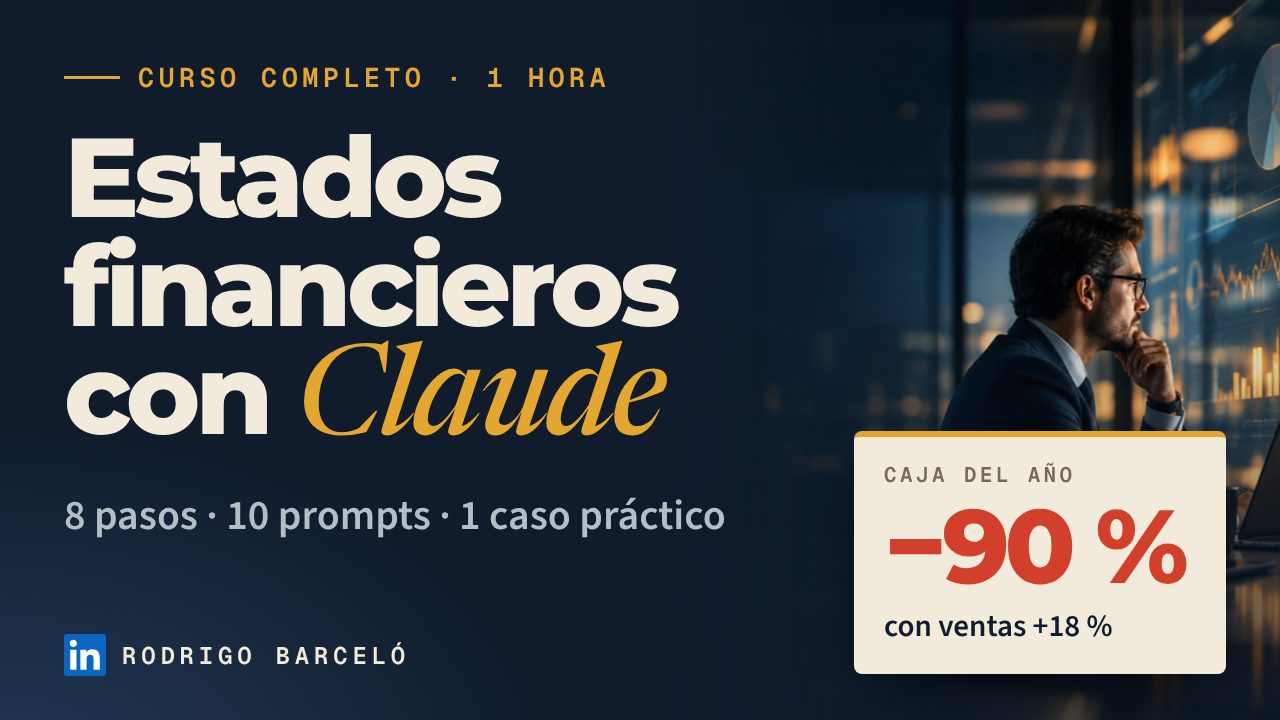
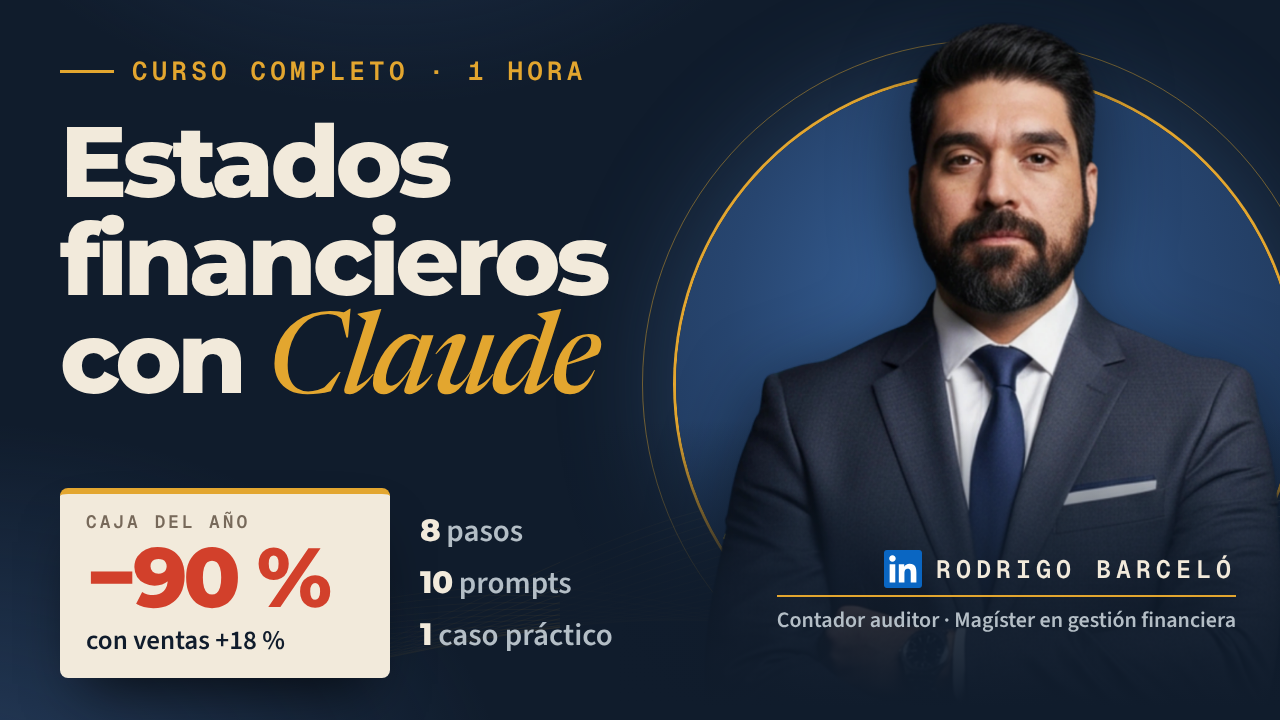
Curso de YouTube: miniatura con el retrato del autor
La miniatura lleva la foto del autor (tomada de su flyer en Canva, exportado con fondo transparente)
sobre un aro de luz con filete dorado, su nombre y credenciales, el título y el dato del caso.
La placa con el nombre queda sobre la esquina donde YouTube superpone la duración del video.

Claude-Session: https://claude.ai/code/session_01D34wMs6CNV8LnqbGaGS6HL

diff --git a/curso_youtube/youtube.py b/curso_youtube/youtube.py
@@ -16,7 +16,7 @@ from pathlib import Path
 
 from . import deck
 from .ensamblar import ENTRADA, _marca
-from .laminas import CORREO, LINKEDIN, LINKEDIN_URL, MARCA
+from .laminas import CORREO, LINKEDIN, LINKEDIN_URL, MARCA, _ondas
 
 AQUI = Path(__file__).parent
 SALIDA = AQUI / "youtube"
@@ -128,41 +128,55 @@ MINIATURA_HTML = """<!doctype html><html lang="es"><head><meta charset="utf-8"><
 @font-face{font-family:"Geist Mono";src:url("__FUENTES__/geist-mono.woff2") format("woff2");font-weight:100 900}
 *{box-sizing:border-box;margin:0;padding:0}
 body{width:1280px;height:720px;overflow:hidden;position:relative;font-family:"Montserrat",sans-serif;color:#F2EADB;
- background:radial-gradient(900px 600px at 0% 110%,rgba(63,98,148,.42),transparent 62%),#101C2C}
-.foto{position:absolute;right:0;top:0;bottom:0;width:600px;background:url("__IMAGENES__/heroe_gestion.jpg") 58% 50%/cover;
- -webkit-mask-image:linear-gradient(90deg,transparent 0,rgba(0,0,0,.6) 30%,#000 62%);mask-image:linear-gradient(90deg,transparent 0,rgba(0,0,0,.6) 30%,#000 62%)}
-.foto::after{content:"";position:absolute;inset:0;background:linear-gradient(180deg,rgba(16,28,44,.1),rgba(16,28,44,0) 40%,rgba(16,28,44,.78))}
-.iz{position:absolute;left:64px;top:60px;width:800px}
-.sello{display:flex;align-items:center;gap:18px;font-family:"Geist Mono",monospace;font-size:27px;font-weight:600;letter-spacing:.16em;color:#E3A62F}
-.sello::before{content:"";width:56px;height:3px;background:#E3A62F}
-h1{font-size:112px;line-height:.97;font-weight:800;letter-spacing:-.045em;margin-top:28px}
-h1 em{font-family:"Newsreader",serif;font-style:italic;font-weight:500;letter-spacing:-.02em;color:#E3A62F;font-size:1.12em;line-height:.8}
-.sub{margin-top:30px;font-family:"Source Sans 3",sans-serif;font-size:42px;font-weight:600;color:#B4BEC6}
-.marca{position:absolute;left:64px;bottom:44px;display:flex;align-items:center;gap:16px;font-family:"Geist Mono",monospace;font-size:24px;font-weight:600;letter-spacing:.2em;text-transform:uppercase;color:#F2EADB}
-.marca svg{width:42px;height:42px;flex:none}
-.dato{position:absolute;right:54px;bottom:46px;width:372px;background:#F2EADB;color:#101C2C;border-radius:8px;padding:24px 30px 26px;box-shadow:0 34px 70px -24px rgba(0,0,0,.75);border-top:6px solid #E3A62F}
-.dato .t{font-family:"Geist Mono",monospace;font-size:21px;font-weight:600;letter-spacing:.16em;color:#77695A}
-.dato .n{font-size:104px;font-weight:800;letter-spacing:-.05em;line-height:1;margin-top:6px;color:#D2402B}
-.dato .d{font-family:"Source Sans 3",sans-serif;font-size:31px;font-weight:600;margin-top:6px}
+ background:radial-gradient(900px 620px at -4% 112%,rgba(63,98,148,.46),transparent 62%),radial-gradient(700px 500px at 30% -30%,rgba(46,72,110,.5),transparent 64%),#101C2C}
+.ondas{position:absolute;inset:0;width:1280px;height:720px;opacity:.26}
+/* el autor, sobre un aro de luz que lo separa del fondo */
+.aro{position:absolute;left:676px;top:74px;width:620px;height:620px;border-radius:50%;
+ background:radial-gradient(circle at 46% 38%,#3A66A0 0%,#27456F 46%,#1A2E4B 100%);box-shadow:0 0 0 3px #E3A62F,0 0 110px 10px rgba(79,125,184,.32)}
+.aro::after{content:"";position:absolute;inset:-34px;border-radius:50%;border:1.5px solid rgba(227,166,47,.45)}
+.autor{position:absolute;left:704px;top:22px;height:838px;filter:drop-shadow(0 18px 36px rgba(4,8,14,.6))}
+.velo{position:absolute;left:560px;right:0;bottom:0;height:300px;background:linear-gradient(180deg,rgba(16,28,44,0),rgba(16,28,44,.8) 52%,#101C2C 96%)}
+.placa{position:absolute;right:44px;bottom:84px;display:flex;flex-direction:column;align-items:flex-end;gap:7px}
+.placa .n{display:flex;align-items:center;gap:14px;font-family:"Geist Mono",monospace;font-size:25px;font-weight:600;letter-spacing:.2em;text-transform:uppercase;color:#F2EADB}
+.placa .n svg{width:38px;height:38px;flex:none}
+.placa .c{font-family:"Source Sans 3",sans-serif;font-size:22px;font-weight:600;color:#B4BEC6;border-top:2px solid #E3A62F;padding-top:7px}
+.iz{position:absolute;left:60px;top:54px;width:660px}
+.sello{display:flex;align-items:center;gap:18px;font-family:"Geist Mono",monospace;font-size:26px;font-weight:600;letter-spacing:.16em;color:#E3A62F}
+.sello::before{content:"";width:54px;height:3px;background:#E3A62F}
+h1{font-size:100px;line-height:.98;font-weight:800;letter-spacing:-.045em;margin-top:24px}
+h1 em{font-family:"Newsreader",serif;font-style:italic;font-weight:500;letter-spacing:-.02em;color:#E3A62F;font-size:1.13em;line-height:.8}
+.abajo{position:absolute;left:60px;bottom:42px;display:flex;align-items:stretch;gap:30px}
+.dato{width:330px;background:#F2EADB;color:#101C2C;border-radius:8px;padding:16px 26px 18px;box-shadow:0 30px 60px -24px rgba(0,0,0,.75);border-top:6px solid #E3A62F}
+.dato .t{font-family:"Geist Mono",monospace;font-size:18px;font-weight:600;letter-spacing:.16em;color:#77695A}
+.dato .n{font-size:84px;font-weight:800;letter-spacing:-.05em;line-height:1;margin-top:2px;color:#D2402B;white-space:nowrap}
+.dato .d{font-family:"Source Sans 3",sans-serif;font-size:27px;font-weight:600;margin-top:2px}
+.lista{display:flex;flex-direction:column;justify-content:center;gap:8px;font-family:"Source Sans 3",sans-serif;font-size:31px;font-weight:600;color:#B4BEC6;white-space:nowrap}
+.lista b{font-family:"Montserrat",sans-serif;font-weight:800;color:#F2EADB;letter-spacing:-.02em}
 </style></head><body>
-<div class="foto"></div>
+__ONDAS__
+<div class="aro"></div>
+<img class="autor" src="__IMAGENES__/autor.png" alt="">
+<div class="velo"></div>
 <div class="iz"><span class="sello">CURSO COMPLETO · 1 HORA</span>
-<h1>Estados financieros con <em>Claude</em></h1>
-<div class="sub">8 pasos · 10 prompts · 1 caso práctico</div></div>
-<div class="marca">__LOGO____MARCA__</div>
-<div class="dato"><div class="t">CAJA DEL AÑO</div><div class="n">−90 %</div><div class="d">con ventas +18 %</div></div>
+<h1>Estados financieros con <em>Claude</em></h1></div>
+<div class="abajo"><div class="dato"><div class="t">CAJA DEL AÑO</div><div class="n">−90 %</div><div class="d">con ventas +18 %</div></div>
+<div class="lista"><span><b>8</b> pasos</span><span><b>10</b> prompts</span><span><b>1</b> caso práctico</span></div></div>
+<div class="placa"><div class="n">__LOGO____MARCA__</div><div class="c">Contador auditor · Magíster en gestión financiera</div></div>
 </body></html>"""
 
 
 def miniatura(destino: Path) -> None:
+    """Miniatura de 1280 x 720 con el retrato del autor (imagenes/autor.png)."""
     aqui = Path(__file__).parent.resolve()
     html = destino.with_suffix(".html")
     html.write_text(MINIATURA_HTML.replace("__LOGO__", LINKEDIN).replace("__MARCA__", MARCA)
+                    .replace("__ONDAS__", _ondas(0).replace('viewBox="0 0 1920 1080"', 'viewBox="0 0 1920 1080" preserveAspectRatio="none"'))
                     .replace("__FUENTES__", (aqui / "fuentes").as_uri()).replace("__IMAGENES__", (aqui / "imagenes").as_uri()),
                     encoding="utf-8")
     script = ("const {chromium}=require('playwright');(async()=>{const b=await chromium.launch();"
               "const c=await b.newContext({viewport:{width:1280,height:720},deviceScaleFactor:1});const p=await c.newPage();"
               f"await p.goto('file://{html.resolve()}');await p.evaluate(()=>document.fonts.ready);"
+              "await p.evaluate(()=>Promise.all([...document.images].map(i=>i.decode().catch(()=>{}))));"
               f"await p.screenshot({{path:'{destino.resolve()}'}});await b.close();}})();")
     subprocess.run(["node", "-e", script], check=True)
     html.unlink()

diff --git a/tests/test_curso_deck.py b/tests/test_curso_deck.py
@@ -89,3 +89,14 @@ def test_el_cierre_ofrece_asesoria_con_los_datos_de_contacto():
     descripcion = youtube.publicacion(["00:00 Introducción"], estimados=False)
     assert LINKEDIN_URL in descripcion and CORREO in descripcion
     assert "[ENLACE A TU PERFIL DE LINKEDIN]" not in descripcion
+
+
+def test_la_miniatura_usa_el_retrato_del_autor_y_archivos_que_existen():
+    import re
+    from pathlib import Path
+    from curso_youtube import youtube
+    raiz = Path(youtube.__file__).parent
+    assert "__IMAGENES__/autor.png" in youtube.MINIATURA_HTML
+    for carpeta, marca in (("imagenes", "__IMAGENES__"), ("fuentes", "__FUENTES__")):
+        for archivo in re.findall(re.escape(marca) + r"/([\w.-]+)", youtube.MINIATURA_HTML):
+            assert (raiz / carpeta / archivo).exists(), f"{carpeta}/{archivo}"

diff --git a/curso_youtube/README.md b/curso_youtube/README.md
@@ -11,6 +11,7 @@ los subtítulos y los capítulos.
 | Caso práctico (Distribuidora Alerce, ficticia) | `caso.py` · todas las cifras se calculan y verifican aquí |
 | Material descargable para la audiencia | `material/caso_distribuidora_alerce.xlsx` y `material/prompts.md` |
 | Título, descripción, capítulos, etiquetas y miniatura | `youtube/publicacion.md` y `youtube/miniatura.png` |
+| Retrato del autor para la miniatura (viene de su flyer en Canva, exportado con fondo transparente) | `imagenes/autor.png` |
 | Registro de la narración generada (qué audio corresponde a cada segmento) | `narracion.json` |
 
 ## Cómo se produce el video
